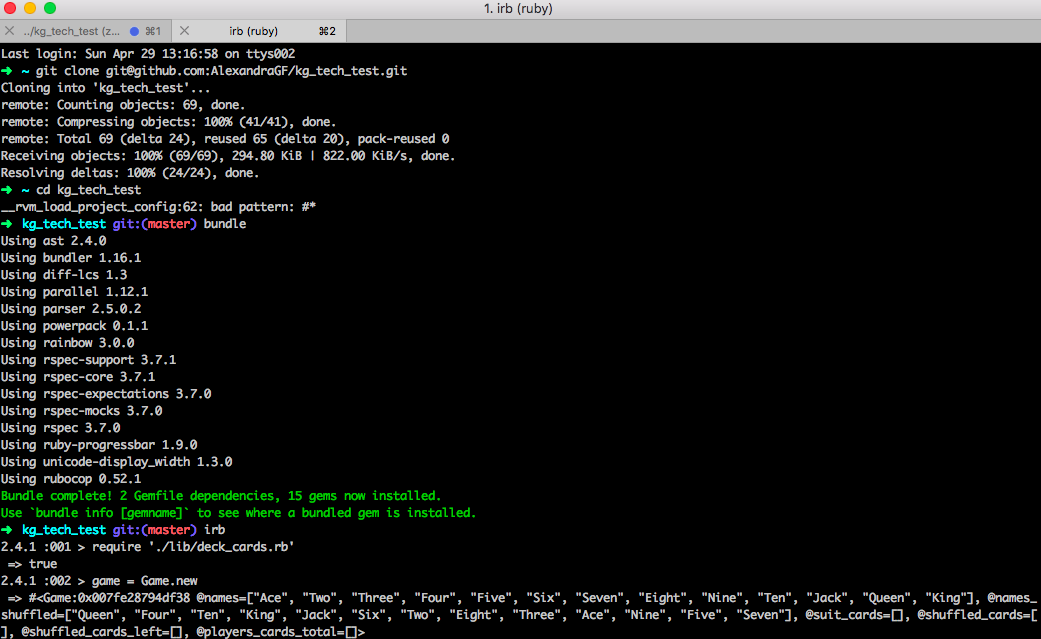
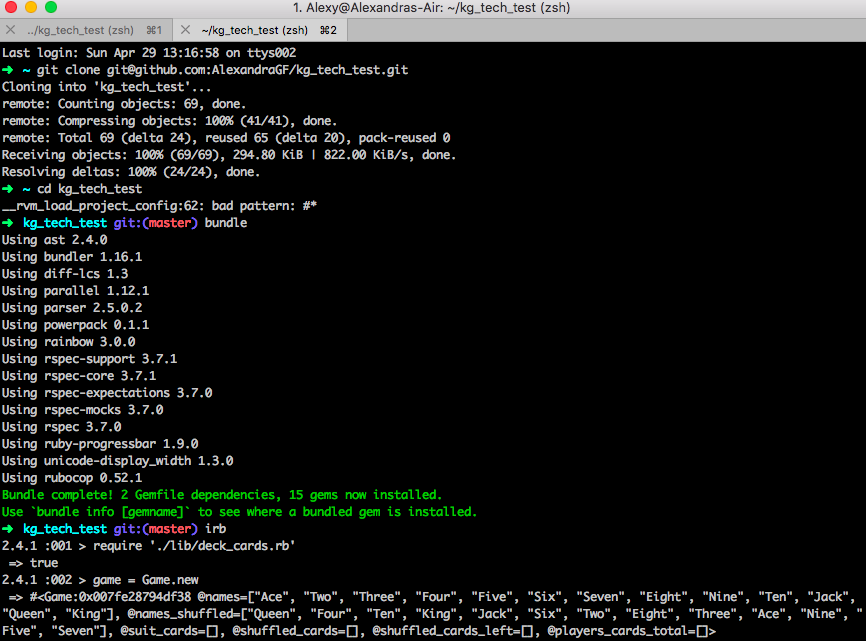
Add correct test running photo

Changed region(s): [[0.0, 0.0, 1.0, 1.0]]

diff --git a/README.md b/README.md
@@ -74,4 +74,4 @@ game.deal_cards_game(4)  (you enter a number of player, for example 4, and then 
 
 On your terminal, type ``` rspec ``` and the tests will run.
 
-![alt tag](public/Tests running.png)
+![alt tag](public/tests_running.png)
